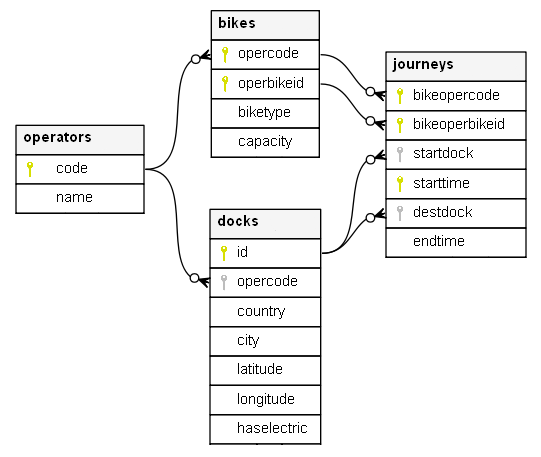
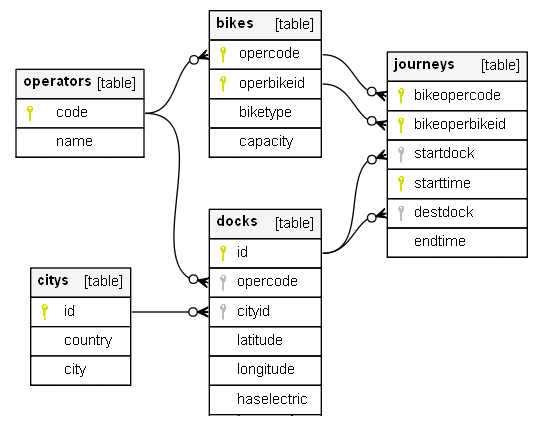
interim

Changed region(s): [[0.0296, 0.0, 0.976, 0.9788], [0.0296, 0.6118, 0.2662, 0.9176]]

diff --git a/Assignment/Assignment.md b/Assignment/Assignment.md
@@ -7,49 +7,56 @@
 ```sql
 --Operators table contains all the operator codes, along with their names.  Names are unique for each operator
 CREATE TABLE Operators (
- Code INT PRIMARY KEY,
- Name VARCHAR(100) UNIQUE
+	Code INT PRIMARY KEY,
+	Name VARCHAR(100) UNIQUE
 );
 
 -- BikeType allows us to constrain the type of bikes allowed to either Manual or Electric
 CREATE TYPE BikeType AS ENUM (
- 'Manual',
- 'Electric'
+	'Manual',
+	'Electric'
 );
 
 -- The Bikes table references the Operators table for Operator Codes, primary key is a combination of OperCode 
 -- and OperBikeID, Capacity may be null to allow for manual bikes
 CREATE TABLE Bikes (
- OperCode INT NOT NULL REFERENCES Operators(Code),
- OperBikeID INT NOT NULL,
- BikeType BikeType NOT NULL,
- Capacity INT,
- PRIMARY KEY (OperCode, OperBikeID)
+	OperCode INT NOT NULL REFERENCES Operators(Code),
+	OperBikeID VARCHAR(100) NOT NULL,
+	BikeType BikeType NOT NULL,
+	Capacity INT,
+	PRIMARY KEY (OperCode, OperBikeID)
+);
+
+CREATE TABLE Citys (
+	ID INT GENERATED ALWAYS AS IDENTITY,
+	Country VARCHAR(100) NOT NULL,
+	City VARCHAR(100) NOT NULL,
+	PRIMARY KEY (ID),
+	UNIQUE (Country, City)
 );
 
 CREATE TABLE DOCKS (
- ID INT PRIMARY KEY,
- OperCode INT NOT NULL REFERENCES Operators(Code),
- Country VARCHAR(100) NOT NULL,
- City VARCHAR(100) NOT NULL,
- Latitude DOUBLE PRECISION NOT NULL,
- Longitude DOUBLE PRECISION NOT NULL,
- HasElectric BOOL NOT NULL
+	ID VARCHAR(100) PRIMARY KEY,
+	OperCode INT NOT NULL REFERENCES Operators(Code),
+	CityID INT NOT NULL REFERENCES Citys(ID),
+	Latitude DOUBLE PRECISION NOT NULL,
+	Longitude DOUBLE PRECISION NOT NULL,
+	HasElectric BOOL NOT NULL
 );
 
 -- Journeys references Docks table twice, once for start dock and another time for end dock
 -- Primary key is chosen because logically the same bike can only start one trip at a time
 CREATE TABLE Journeys (
- BikeOperCode INT NOT NULL,
- BikeOperBikeID INT NOT NULL,
- StartDock INT NOT NULL REFERENCES Docks(ID),
- StartTime TIMESTAMP NOT NULL,
- DestDock INT REFERENCES Docks(ID),
- EndTime TIMESTAMP,
- -- Assumed that we would want to allow nulls for destination dock and end time,
- -- so that we can have info for journeys that have started but not finished yet
- PRIMARY KEY (BikeOperCode, BikeOperBikeID, StartTime),
- FOREIGN KEY (BikeOperCode, BikeOperBikeID) REFERENCES Bikes (OperCode, OperBikeID)
+	BikeOperCode INT NOT NULL,
+	BikeOperBikeID VARCHAR(100) NOT NULL,
+	StartDock VARCHAR(100) NOT NULL REFERENCES Docks(ID),	
+	StartTime TIMESTAMP NOT NULL,
+	DestDock VARCHAR(100) REFERENCES Docks(ID), 
+	EndTime TIMESTAMP,	
+	-- Assumed that we would want to allow nulls for destination dock and end time, 
+	-- so that we can have info for journeys that have started but not finished yet
+	PRIMARY KEY (BikeOperCode, BikeOperBikeID, StartTime),
+	FOREIGN KEY (BikeOperCode, BikeOperBikeID) REFERENCES Bikes (OperCode, OperBikeID)
 );
 ```
 
@@ -94,7 +101,70 @@ We cannot create an SQL Constraint statement to stop electric bikes from docking
 
 ## Question 2:
 
-### a)
+### a) All bikes with Operator "Santander Cycles London"
+
 π<sub>OperCode,OperBikeID,BikeType,Capacity</sub>(Bikes ⋈ π<sub>OperCode</sub>(σ<sub>name~'Santander Cycles London'</sub>(Operators)))
 
-### b)
+### b) All bikes with Journeys ending at "UK-Oxford-536" or "UK-Oxford-435"
+
+```{ (oCode, oBike, t, c) | Bikes(oCode, oBike, t, c) ∧ (Journeys(oCode, oBike, sd, st, "UK-Oxford-536", et) ∨ Journeys(oCode, oBike, sd1, st1, "UK-Oxford-435", et1)) ) }```
+
+### c) All bikes which have never travelled to "UK-London-116"
+
+```{ (oCode, oBike, t, c) | Bikes(oCode, oBike, t, c) ∧ ¬Journeys(oCode, oBike, sd, st, "UK-London-116", et) }```
+
+### d) All bikes which started at the same dock on 2 consecutive days
+
+```{ (oCode, oBike, t, c) | Bikes(oCode, oBike, t, c) ∧ Journeys(oCode, oBike, sd, st, ed, et) ∧ Journeys(oCode, oBike, sd, st + 1, ed1, et1)}```
+
+### e) All docks where at least two bikes started from
+
+````{ (dockId, oCode, c, la, lo, ele) | Docks(dockId, oCode, c, la, lo, ele) ∧ Journeys(oCode1, oBike1, dockId, st, ed, et) ∧ Journeys(oCode2, oBike2, dockId, st2, ed2, et2) ∧ ((oCode1 ≠ oCode2) ∨ (oBike1 ≠ oBike2)) }````
+
+### f) Top 10 busiest docks
+
+We cannot express this relation as there is no operator to count (or other aggregate functions) the number of journeys ending at each dock.
+
+### g) Docks reached from "UK-London-231" by Santandar bike "4928302"
+
+We cannot express this relation as there is no upper bound to the number of journeys.  If there was an upper bound such as *n*, we could just join up to *n* times on the Journeys relation.
+
+## Question 3:
+
+### a) All bikes with Operator "Santander Cycles London"
+
+ ```sql
+ SELECT *
+FROM BIKES b 
+INNER JOIN OPERATORS o on b.opercode = o.code
+WHERE o.name = 'Santander Cycles London'
+```
+
+### b) All bikes with Journeys ending at "UK-Oxford-536" or "UK-Oxford-435"
+
+ ```sql
+SELECT *
+FROM BIKES b 
+INNER JOIN Journeys j on b.opercode = j.bikeopercode AND b.operbikeid = j.bikeoperbikeid
+INNER JOIN Docks d on j.destdock = d.id
+WHERE d.id in ('UK-Oxford-536','UK-Oxford-435')
+```
+
+### c) All bikes which have never travelled to "UK-London-116"
+
+ ```sql
+SELECT *
+FROM BIKES b 
+WHERE NOT EXISTS 
+                (SELECT 1 
+                 FROM Journeys j
+                 INNER JOIN Docks d on j.destdock = d.id
+                 WHERE b.opercode = j.bikeopercode AND b.operbikeid = j.bikeoperbikeid
+                 AND d.id = 'UK-London-116')
+```
+
+### d) All bikes which started at the same dock on 2 consecutive days
+
+ ```sql
+
+```
